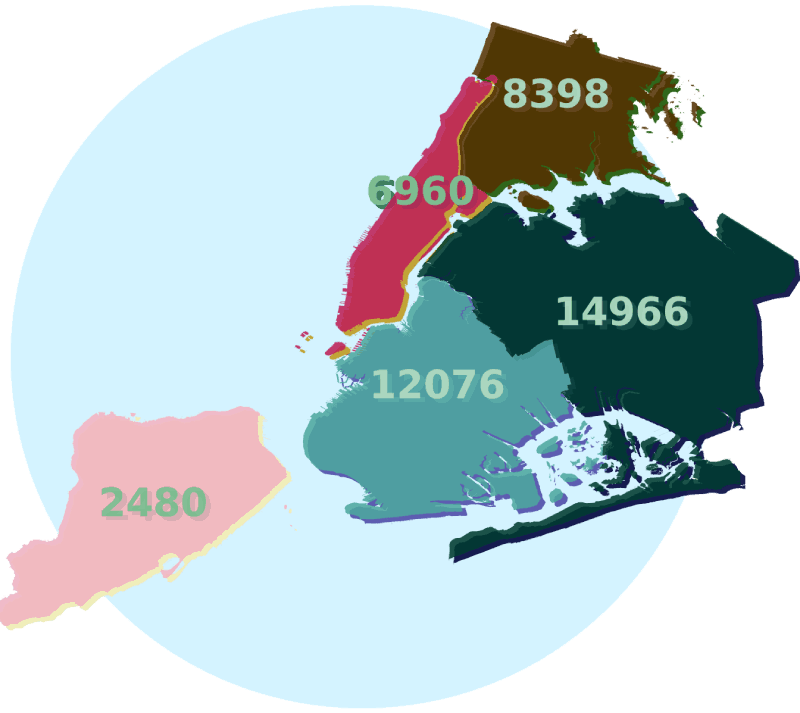
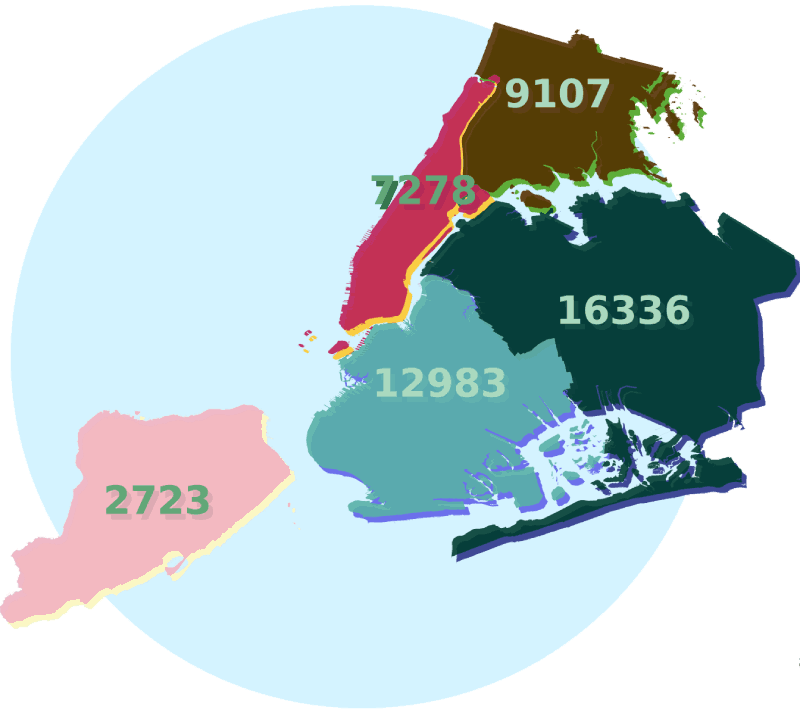
updated nyc and added zipcode photo

diff --git a/pages/index.py b/pages/index.py
@@ -85,7 +85,7 @@ fig_area_nyc_percentage_change.layout.margin.update({'t':0, 'b':0, 'r': 0, 'l': 
 pop_queens =["Queens Residents Positive with Covid-19","Rest of Queens Residents"]
 color_pop_queens = ["#C02059","#94D7CD"]
 
-fig_pie_pop_queens = go.Figure(data=[go.Pie(labels=pop_queens, values=[14966,2258034],marker=dict(colors=color_pop_queens))])#,pull=[0.4, 0]
+fig_pie_pop_queens = go.Figure(data=[go.Pie(labels=pop_queens, values=[16336,2256664],marker=dict(colors=color_pop_queens))])#,pull=[0.4, 0]
 
 # Use `hole` to create a donut-like pie chart
 fig_pie_pop_queens.update_traces(hole=.4, hoverinfo="label+percent+name+value",
@@ -97,7 +97,7 @@ fig_pie_pop_queens.update_traces(hole=.4, hoverinfo="label+percent+name+value",
 fig_pie_pop_queens.update_layout(
     annotations = [dict(text=pop_queens[0], x=0.498, y=0.998, font_size=11, showarrow=True)],
     title={
-        'text':"PERCENTAGE OF PEOPLE WITH COVID-19 IN<br>QUEENS NYC ASSUMING THE POPULATION IS 2.273 MILLION AS OF April 1, 10 AM",
+        'text':"PERCENTAGE OF PEOPLE WITH COVID-19 IN<br>QUEENS NYC ASSUMING THE POPULATION IS 2.273 MILLION AS OF April 2, 10 AM",
         'y':.95,
         'x':0.5,
         'xanchor': 'center',
@@ -112,7 +112,7 @@ fig_pie_pop_queens.update_layout(
 pop_nyc =["NYC Residents Positive with Covid-19","Rest of NYC Residents"]
 color_pop_nyc = ["#C02059","#003C30"]
 
-fig_pie_pop_nyc = go.Figure(data=[go.Pie(labels=pop_nyc, values=[44915,8455085],marker=dict(colors=color_pop_nyc))])#,pull=[0.4, 0]
+fig_pie_pop_nyc = go.Figure(data=[go.Pie(labels=pop_nyc, values=[48462,8451538],marker=dict(colors=color_pop_nyc))])#,pull=[0.4, 0]
 
 # Use `hole` to create a donut-like pie chart
 fig_pie_pop_nyc.update_traces(hole=.4, hoverinfo="label+percent+name+value",
@@ -124,7 +124,7 @@ fig_pie_pop_nyc.update_traces(hole=.4, hoverinfo="label+percent+name+value",
 fig_pie_pop_nyc.update_layout(
     annotations = [dict(text=pop_queens[0], x=0.498, y=0.998, font_size=11, showarrow=True)],
     title={
-        'text':"PERCENTAGE OF PEOPLE WITH COVID-19 IN<br>ALL OF NYC ASSUMING THE POPULATION IS 8.5 MILLION AS OF April 1, 10 AM",
+        'text':"PERCENTAGE OF PEOPLE WITH COVID-19 IN<br>ALL OF NYC ASSUMING THE POPULATION IS 8.5 MILLION AS OF April 2, 10 AM",
         'y':.95,
         'x':0.5,
         'xanchor': 'center',
@@ -139,7 +139,7 @@ fig_pie_pop_nyc.update_layout(
 age = ["0 to 17<br>years old", "18 to 44<br>years old", "45 to 64<br>years old", "65 to 74<br>years old", "75 years old<br>and over", "Unknown"]
 age_color = ["#94D6CC","#003D30","#F3B3C3","#ffcece","#543000", "#047484"]
 
-fig_pie_nyc_age = go.Figure(data=[go.Pie(labels=age, values=[803, 18463, 15818, 5484, 4241, 106], name="Age Group",marker=dict(colors=age_color))])#,pull=[0.4, 0]
+fig_pie_nyc_age = go.Figure(data=[go.Pie(labels=age, values=[860, 19835, 17035, 5946, 4678, 108], name="Age Group",marker=dict(colors=age_color))])#,pull=[0.4, 0]
 
 # Use `hole` to create a donut-like pie chart
 fig_pie_nyc_age.update_traces(hole=.4, hoverinfo="label+percent+name+value",
@@ -150,7 +150,7 @@ fig_pie_nyc_age.update_traces(hole=.4, hoverinfo="label+percent+name+value",
 
 fig_pie_nyc_age.update_layout(
     title={
-        'text':"AGE RANGE OF PEOPLE <br>WITH COVID-19 (44915) IN<br>NYC AS OF April 1 10 AM",
+        'text':"AGE RANGE OF PEOPLE <br>WITH COVID-19 (48462) IN<br>NYC AS OF April 2, 10 AM",
         'y':0.95,
         'x':0.5,
         'xanchor': 'center',
@@ -166,7 +166,7 @@ fig_pie_nyc_age.update_layout(
 gender =["Female","Male"]
 gender_color = ["#94D6CC","#003C30"]
 
-fig_pie_nyc_gender = go.Figure(data=[go.Pie(labels=gender, values=[20144,23154], name="Gender",marker=dict(colors=gender_color))])#,pull=[0.4, 0]
+fig_pie_nyc_gender = go.Figure(data=[go.Pie(labels=gender, values=[21890,26509], name="Gender",marker=dict(colors=gender_color))])#,pull=[0.4, 0]
 
 # Use `hole` to create a donut-like pie chart
 fig_pie_nyc_gender.update_traces(hole=.4, hoverinfo="label+percent+name+value",
@@ -177,7 +177,7 @@ fig_pie_nyc_gender.update_traces(hole=.4, hoverinfo="label+percent+name+value",
 
 fig_pie_nyc_gender.update_layout(
     title={
-        'text':"GENDER IDENTITY OF PEOPLE <br>WITH COVID-19 (44915) IN<br>NYC AS OF April 1, 10 AM",
+        'text':"GENDER IDENTITY OF PEOPLE <br>WITH COVID-19 (48462) IN<br>NYC AS OF April 2, 10 AM",
         'y':0.95,
         'x':0.5,
         'xanchor': 'center',
@@ -191,7 +191,7 @@ fig_pie_nyc_gender.update_layout(
 age_of_death = ["0 to 17", "18 to 44", "45 to 64", "65 to 74 ", "75 and over"]
 death_age_color = ["#94D6CC","#003D30","#F3B3C3","#ffcece","#047484"]
 
-fig_pie_nyc_death_age = go.Figure(data=[go.Pie(labels=age_of_death, values=[1, 66, 271, 268, 533], name="Age of Death",marker=dict(colors=death_age_color))])#,pull=[0.4, 0]
+fig_pie_nyc_death_age = go.Figure(data=[go.Pie(labels=age_of_death, values=[1, 80, 342, 339, 635], name="Age of Death",marker=dict(colors=death_age_color))])#,pull=[0.4, 0]
 
 # Use `hole` to create a donut-like pie chart
 fig_pie_nyc_death_age.update_traces(hole=.4, hoverinfo="label+percent+name+value",
@@ -202,7 +202,7 @@ fig_pie_nyc_death_age.update_traces(hole=.4, hoverinfo="label+percent+name+value
 
 fig_pie_nyc_death_age.update_layout(
     title={
-        'text':"AGE RANGE OF PEOPLE WHO<br>PASSED AWAY FROM WITH COVID-19 (1139) IN<br>NYC AS OF April 1, 10 AM",
+        'text':"AGE RANGE OF PEOPLE WHO<br>PASSED AWAY FROM WITH COVID-19 (1397) IN<br>NYC AS OF April 2, 10 AM",
         'y':0.95,
         'x':0.5,
         'xanchor': 'center',
@@ -216,7 +216,7 @@ fig_pie_nyc_death_age.update_layout(
 gender_death =["Female","Male"]
 color_gender_death = ["#94D6CC","#003C30"]
 
-fig_pie_nyc_death_gender = go.Figure(data=[go.Pie(labels=gender_death, values=[417, 721], name="Age of Death",marker=dict(colors=color_gender_death))])#,pull=[0.4, 0]
+fig_pie_nyc_death_gender = go.Figure(data=[go.Pie(labels=gender_death, values=[524, 872], name="Age of Death",marker=dict(colors=color_gender_death))])#,pull=[0.4, 0]
 
 # Use `hole` to create a donut-like pie chart
 fig_pie_nyc_death_gender.update_traces(hole=.4, hoverinfo="label+percent+name+value",
@@ -227,7 +227,7 @@ fig_pie_nyc_death_gender.update_traces(hole=.4, hoverinfo="label+percent+name+va
 
 fig_pie_nyc_death_gender.update_layout(
     title={
-        'text':"GENDER IDENTITY OF PEOPLE WHO<br>PASSED AWAY FROM WITH COVID-19 (1139) IN<br>NYC AS OF April 1, 10 AM",
+        'text':"GENDER IDENTITY OF PEOPLE WHO<br>PASSED AWAY FROM WITH COVID-19 (1397) IN<br>NYC AS OF April 2, 10 AM",
         'y':0.95,
         'x':0.5,
         'xanchor': 'center',
@@ -241,7 +241,7 @@ fig_pie_nyc_death_gender.update_layout(
 underlying_illness =["Had Underlying Illness","Did Not", "Unknown"]
 underlying_illness_color = ["#BF1F57","#94D7CD","#003C2F"]
 
-fig_pie_nyc_death_illness = go.Figure(data=[go.Pie(labels=underlying_illness, values=[789,14,336], name="Age of Death",marker=dict(colors=underlying_illness_color))])#,pull=[0.4, 0]
+fig_pie_nyc_death_illness = go.Figure(data=[go.Pie(labels=underlying_illness, values=[1046,18,333], name="Age of Death",marker=dict(colors=underlying_illness_color))])#,pull=[0.4, 0]
 
 # Use `hole` to create a donut-like pie chart
 fig_pie_nyc_death_illness.update_traces(hole=.4, hoverinfo="label+percent+name+value",
@@ -252,7 +252,7 @@ fig_pie_nyc_death_illness.update_traces(hole=.4, hoverinfo="label+percent+name+v
 
 fig_pie_nyc_death_illness.update_layout(
     title={
-        'text':"EXISTENCE OF UNDERLYING ILLNESS OF PEOPLE WHO<br>PASSED AWAY FROM WITH COVID-19 (1139) IN<br>NYC AS OF April 1, 10 AM",
+        'text':"EXISTENCE OF UNDERLYING ILLNESS OF PEOPLE WHO<br>PASSED AWAY FROM WITH COVID-19 (1397) IN<br>NYC AS OF April 2, 10 AM",
         'y':0.95,
         'x':0.5,
         'xanchor': 'center',
@@ -1460,7 +1460,7 @@ columnTopLeft = dbc.Col(
         dcc.Graph(figure=fig_area_nyc_percentage_change),
         html.Center(
             children=[
-        html.H6('Data from NY State DOH on April 1, 10 AM', style={'fontSize':8, 'color':'#05b9f0', 'marginTop':10, 'marginBottom':8}),
+        html.H6('Data from NY State DOH on April 2, 10 AM', style={'fontSize':8, 'color':'#05b9f0', 'marginTop':10, 'marginBottom':8}),
             ]
         ),
     ],
@@ -1485,13 +1485,13 @@ columnTopRight = dbc.Col(
         html.Center(
             children=[
             html.H6('Positive Cases NYC', style={'fontSize':20, 'color':'#14c5fa', 'marginTop':0, 'marginBottom':8}),#fig_line_cumulative_us_italy_china
-            html.H1('47,439', style={'fontSize':70, 'color':'#5CD8FE', 'marginBottom':0}),#fig_line_cumulative_us_italy_china
+            html.H1('48,462', style={'fontSize':70, 'color':'#5CD8FE', 'marginBottom':0}),#fig_line_cumulative_us_italy_china
             html.H6('Deaths NYC', style={'fontSize':11, 'color':'#14c5fa', 'marginTop':10, 'marginBottom':0}),#fig_line_cumulative_us_italy_china
-            html.H6('1139', style={'fontSize':32, 'color':'#5CD8FE', 'marginTop':10}),#fig_line_cumulative_us_italy_china
-            html.H6('Data above from NY State Dept. of Health April 1, 4 PM', style={'fontSize':8, 'color':'#05b9f0', 'marginTop':10, 'marginBottom':0}),#fig_line_cumulative_us_italy_china
+            html.H6('1397', style={'fontSize':32, 'color':'#5CD8FE', 'marginTop':10}),#fig_line_cumulative_us_italy_china
+            html.H6('Data above from NYC Dept. of Health April 2, 10 AM', style={'fontSize':8, 'color':'#05b9f0', 'marginTop':10, 'marginBottom':0}),#fig_line_cumulative_us_italy_china
             html.H6('Positive Cases by Borough', style={'fontSize':20, 'color':'#208fb1', 'marginTop':20}),
             html.Img(src=app.get_asset_url('NYC_Covid-19_Cases_today.png'), style={'display': 'block', 'height':300}),
-            html.H6('Data from NYC DOH, last updated there on April 1, 10 AM', style={'fontSize':8, 'color':'#05b9f0', 'marginTop':30, 'marginBottom':8}),
+            html.H6('Data from NYC Dept. of Health April 2, 10 AM', style={'fontSize':8, 'color':'#05b9f0', 'marginTop':30, 'marginBottom':8}),
             ]
         ),
     ],
@@ -1507,6 +1507,8 @@ columnNeighborhoods = dbc.Col(
                 html.H6('Map Released by the  NYC DOH, on March 30', style={'fontSize':8, 'color':'#05b9f0', 'marginTop':30, 'marginBottom':8}),
                 html.Img(src=app.get_asset_url('covid-19-hospital_rates.jpg'), style={'display': 'block', 'width':'100%', 'marginTop':70}),
                 html.H6('Line Chart Released by the  NYC DOH, on March 29', style={'fontSize':8, 'color':'#05b9f0', 'marginTop':30, 'marginBottom':8}),
+                html.Img(src=app.get_asset_url('confirmed_by_zipcode.PNG'), style={'display': 'block', 'width':'100%', 'marginTop':70}),
+                html.H6('Line Chart Released by the  NYC DOH, on March 31 based off 38,936 total cases. Please be aware that confirmed cases is only a function of availability of testing and willingness to test. Only those who show up to a hospital with select symptoms and those who can show up to the testing sites in a vehicle are tested at this time.', style={'fontSize':8, 'color':'#05b9f0', 'marginTop':30, 'marginBottom':8}),
             ]
         )
     ],md=10,
